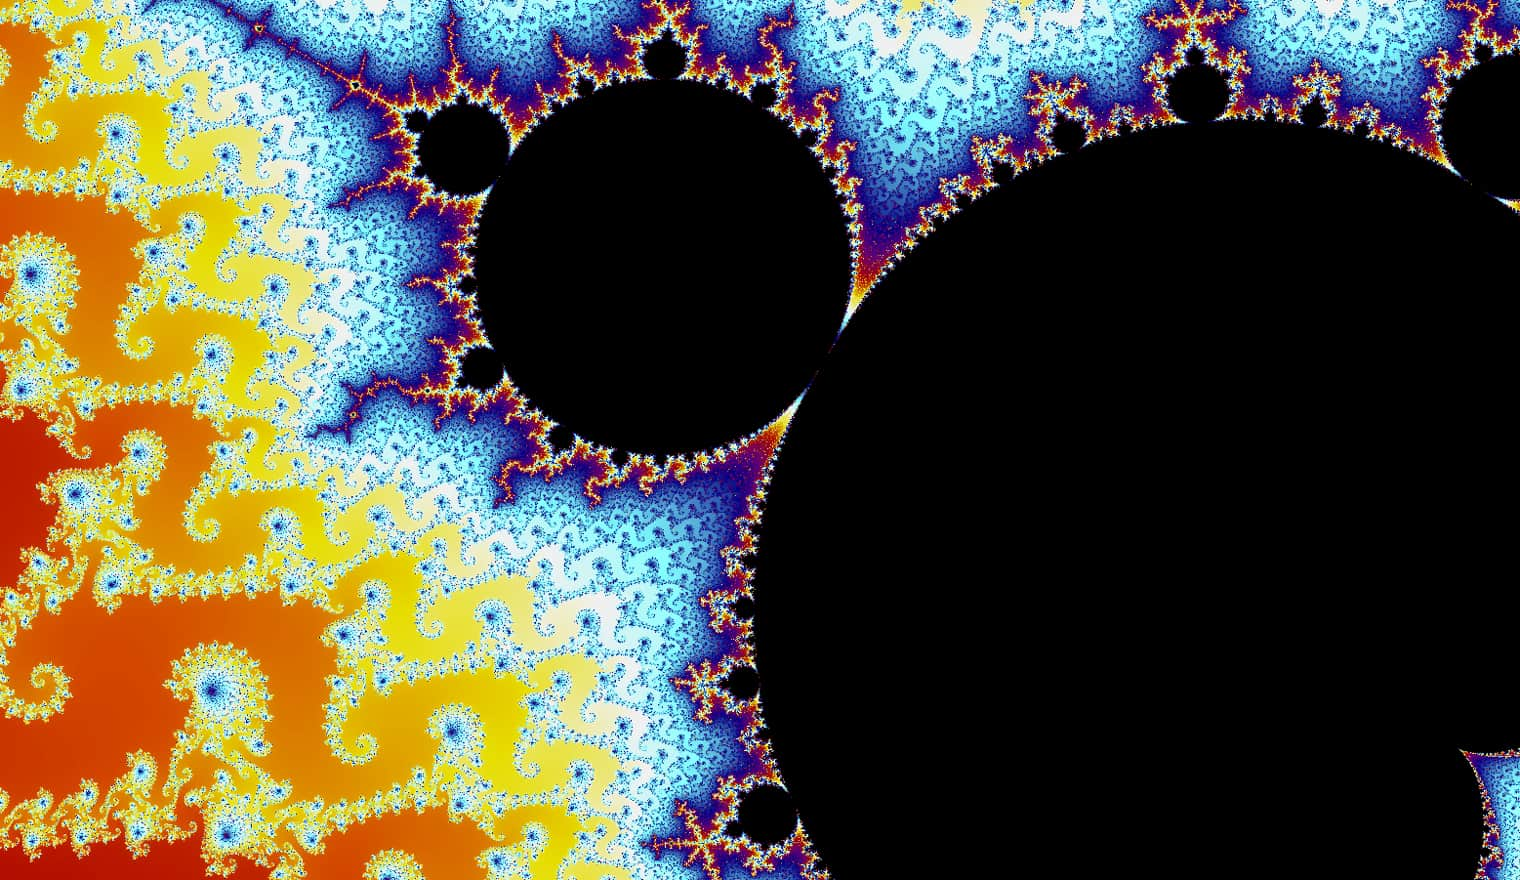
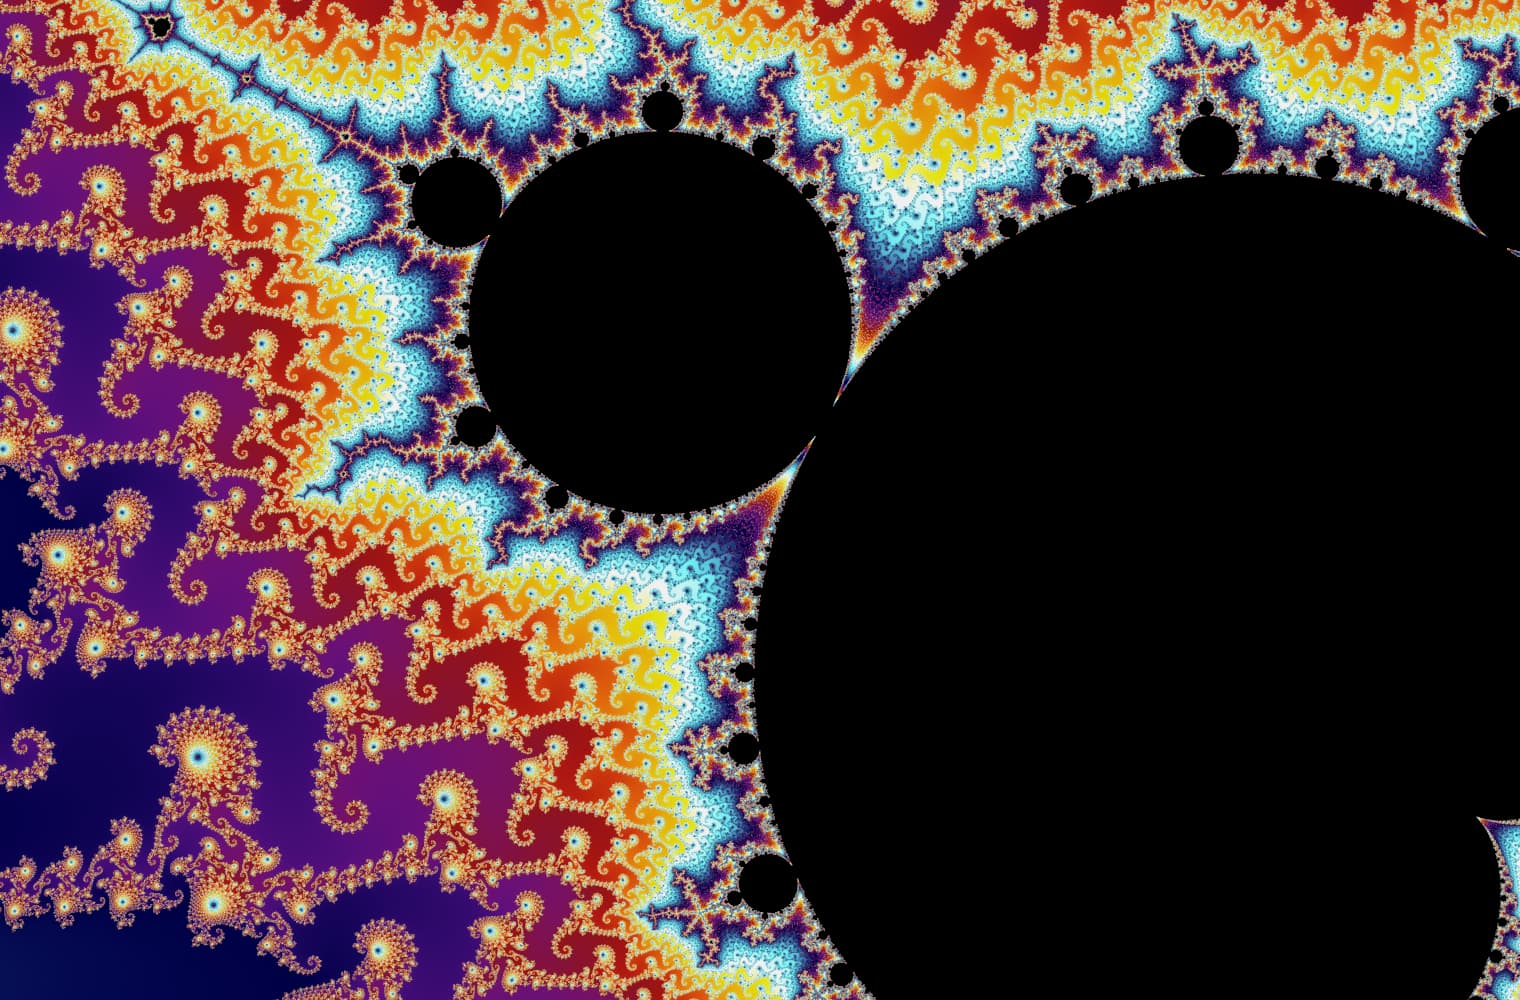
Update mandelbrot images and into text

diff --git a/content/fractals/functions.ts b/content/fractals/functions.ts
@@ -47,11 +47,18 @@ function drawIteration($canvas: CanvasView, a: Point, b: Point, c1: Point, c2: P
 export function fern($step: Step) {
   const $geopad = $step.$('x-geopad') as Geopad;
   const $canvas = $geopad.$('canvas') as CanvasView;
+  const $slider = $step.$('x-slider') as Slider;
 
   $step.model.watch(({steps, a, b, c1, c2}: any) => {
     $canvas.clear();
     drawIteration($canvas, a.scale(2), b.scale(2), c1.scale(2), c2.scale(2), steps);
   });
+
+  $step.model.set = (a: number, b: number, c: number, d: number) => {
+    $geopad.animatePoint('c1', new Point(a, b), 500);
+    $geopad.animatePoint('c2', new Point(c, d), 500);
+    $slider.moveTo(8, 500)
+  };
 }
 
 function drawSierpinski([a, b, c]: Point[], i: number): string {
@@ -185,7 +192,7 @@ export function mandelZoom($step: Step) {
   const $slider = $step.$('x-slider') as Slider;
   const speed = 2 * ($images.length - 1) / $slider.steps;
 
-  $step.model.pow = (s: number) => Math.round(2 ** (s/100 * 19));
+  $step.model.pow = (s: number) => Math.round(4 ** (s/10));
 
   $step.model.watch((state: any) => {
     for (const [i, $img] of $images.entries()) {

diff --git a/content/fractals/styles.less b/content/fractals/styles.less
@@ -70,7 +70,7 @@ path.var.white { fill: white; }
   position: relative;
   overflow: hidden;
   border-radius: 6px;
-  padding-bottom: 57.89%;
+  padding-bottom: 65.79%;
   img { .fillParent(); }
   .scale { position: absolute; left: 50%; bottom: 8px; background: fade(black, 50%);
     color: white; border: 1px solid white; border-radius: 20px; line-height: 24px;

diff --git a/content/fractals/content.md b/content/fractals/content.md
@@ -25,44 +25,52 @@ spiralling around a larger one.
 
 :::
 
-{.fixme.reveal(when="blank-0")} Initially, these look highly complex shapes – but
-when you look closer, you can see that they both follow a simple pattern:
-Notice how the [individual parts](target:fractal) of both plants look exactly
-the same as the entire plant, just smaller. The same pattern is repeated over
-and over again, at smaller scales.
-
----
-> id: self-similar
-
-{.fixme} In mathematics, we call this _self-similarity_. The shapes that have this
-property are called __Fractals__, and they are some of the most beautiful and
-most bizarre objects in all of mathematics.
+{.reveal(when="blank-0")} Initially, these appear like highly complex shapes –
+but when you look closer, you might notice that they both follow a relatively
+simple pattern: all the [individual parts](target:fractal) of the plants look
+exactly the same as the entire plant, just smaller. The same pattern is repeated
+over and over again, at smaller scales.
+[Continue](btn:next)
 
 ---
 > id: fern
 
-{.fixme} To create a fractal, you can start with a simple pattern and repeat it at
-smaller scales, again and again, forever. 
+In mathematics, we call this property __self-similarity__, and shapes that
+have it are called [__fractals__](gloss:fractal). They are some of the most
+beautiful and most bizarre objects in all of mathematics.
+
+To create our own fractals, we have to start with a simple pattern and then
+repeat it over and over again, at smaller scales.
 
 ::: column.grow
 
-{.fixme} We can try to create our own fractals using geometry.
+One of the simplest patterns might be a [{.pill.red} line segment](target:s1),
+with [{.pill.blue} two more segments](target:s2) branching off one end. If we
+repeat this pattern, both of these blue segments will also have two more
+branches at their ends.
 
-{.fixme} Depending on how you position the points, you can make completely different
-kinds of shapes – looking like a tree, or like a fern.
+You can move the [blue dots](target:dot) to change the length and angle of all
+of the branches. Then increase the number of iterations using [the
+slider](->#fern-slider) below.
 
-::: column(width=320)
+{.reveal(when="slider-0")} Depending on the position of the branches, you can
+make completely different patterns – looking like the
+[fern](action:set(130,228,197,184)) above, a [tree](action:set(160,186,200,186)),
+or [nested pentagons](action:set(113,235,232,238)). What else can you find?
+[Continue](btn:next)
 
-    x-geopad(width=320 height=320)
-      canvas(width=640 height=640)
+::: column(width=360)
+
+    x-geopad(width=360 height=360 projections="no")
+      canvas(width=720 height=720)
       svg
-        circle(x="point(160,300)" name="a" hidden)
-        circle(x="point(160,220)" name="b" hidden)
-        circle.move.blue(name="c1" cx=150 cy=160)
-        circle.move.blue(name="c2" cx=200 cy=200)
-        path.thick.red(x="segment(a,b)")
-        path.thick.blue.rounded(x="polyline(c1,b,c2)")
-    x-slider(steps=8 var="steps")
+        circle(x="point(180,340)" name="a" hidden)
+        circle(x="point(180,250)" name="b" hidden)
+        circle.move.blue.pulsate(name="c1" cx=150 cy=175 target="s2 dot")
+        circle.move.blue.pulsate(name="c2" cx=225 cy=220 target="s2 dot")
+        path.thick.red(x="segment(a,b)" target="s1")
+        path.thick.blue.rounded(x="polyline(c1,b,c2)" target="s2")
+    x-slider#fern-slider(steps=8 var="steps")
 
 :::
 
@@ -71,7 +79,7 @@ kinds of shapes – looking like a tree, or like a fern.
 
 ::: column.grow(parent="right")
 
-Another famous fractal is the __Sierpinski Triangle__. In this case, you start
+Another famous fractal is the __Sierpinski Triangle__. In this case, we start
 with a large, equilateral triangle, and then repeatedly cut smaller triangles
 out of the remaining parts.
 
@@ -91,18 +99,14 @@ will continue repeating, forever.
 ---
 > id: real
 
-{.fixme} The plants at the begining of this chapter _look_ like fractals, but it is
-clearly impossible to create _true_ fractals in real life: if we keep repeating
+The plants at the begining of this chapter _look_ just like fractals, but it is
+clearly impossible to create _true_ fractals in real-life: if we keep repeating
 the same pattern over and over again, smaller and smaller, we would eventually
 get to cells, molecules or atoms which can no longer be divided.
 
-{.fixme} At the beginning of this chapter, we saw two examples of plants that look almost
-like fractals – ferns and broccoli. Of course, true fractals can never appear
-in nature: if you zoom in further and further, you would eventually arrive at
-molecules and atoms, which are no longer divisible.
-
 However, using mathematics, we can think about the properties that real fractals
 “would” have – and these are very surprising…
+[Continue](btn:next)
 
 ---
 
@@ -114,7 +118,7 @@ However, using mathematics, we can think about the properties that real fractals
 
 ::: column.grow
 
-First, let’s think about the dimension of Fractals. A line has dimension [[1]].
+First, let’s think about the dimension of fractals. A line has dimension [[1]].
 _{span.reveal(when="blank-0")} When scaling it by a factor of 2, its length
 increases by a factor of `§2^1 = 2`. Obviously!_
 
@@ -143,6 +147,8 @@ a factor of 2, its area increases by a factor of `§2^2 =` [[4]]._
 
 A square has dimension [[3]]. _{span.reveal(when="blank-0")} When scaling it by
 a factor of 2, its volume increases by a factor of `§2^3 =` [[8]]._
+_{span.reveal(when="blank-1")} Notice that the larger cube in the image
+consists of 8 copies of the smaller one!_
 
 :::
 
@@ -154,32 +160,39 @@ a factor of 2, its volume increases by a factor of `§2^3 =` [[8]]._
 
 ::: column.grow
 
-Now let's have a look at the Sierpinski triangle. If we scale it by a factor of
-2, you can see that it's "area" increases by a factor of [[3]].
+Now let’s have a look at the Sierpinski triangle. If we scale it by a factor of
+2, you can see that it’s “area” increases by a factor of [[3]].
 
-{.reveal(when="blank-0")} Let's say that _d_ is the dimension of the triangle.
-Using the same pattern as above, we get `§2^d = 3`. In other words, _d_ =
-[[`log_2(3)`|`log_3(2)`]] _≈ 1.585…_
+{.reveal(when="blank-0")} Let’s say that _d_ is the dimension of the Sierpinski
+triangle. Using the same pattern as above, we get `§2^d = 3`. In other words,
+_d_ = [[`log_2(3)`|`log_3(2)`]] _{span.reveal(when="blank-1")}≈ 1.585…_
 
 :::
 
 ---
 
-So … how can something have a dimension that is not an integer? It seems
+But wait … how can something have a dimension that is not an integer? It seems
 impossible, but this is just one of the weird properties of fractals. In fact,
 this is what gives fractals their name: they have a __fractional dimension__.
 
 With every iteration, we remove some of the area of the Sierpinski triangle.
 If we could do this infinitely many times, there would actually be no area
-left: that's why the Sierpinski triangle is something in-between a 2-dimesional
+left: that’s why the Sierpinski triangle is something in-between a 2-dimesional
 area, and a 1-dimensional line.
+
+::: .theorem
+While many fractals are _self-similar_, a better definition is that __fractals__
+are shapes which have a __non-integer dimension__.
+:::
+
+[Continue](btn:next)
 
 ---
 > id: snowflake
 
 ### The Koch Snowflake
 
-There are many shapes in nature that look like fractals. We've already seen
+There are many shapes in nature that look like fractals. We’ve already seen
 some plants at the beginning of this chapter. Another great examples are
 snowflakes and ice crystals:
 
@@ -674,6 +687,21 @@ supercomputers in 1980; today everybody can do the same calculations on a normal
 laptop.
 
 ---
+
+Here are two of the first visualisations of the Mandelbrot set and a Julia set,
+from a paper by Robert Brooks and Peter Matelski, published in 1980:
+
+::: column(width=340)
+
+    x-media(src="images/mandelbrot.jpg" width=340 height=340)
+
+::: column(width=340)
+
+    x-media(src="images/julia.jpg" width=340 height=340)
+
+:::
+
+---
 > id: mandel-zoom
 
 Black points in the image below are part of the Mandelbrot set. Coloured areas
@@ -682,16 +710,17 @@ respective sequence of complex numbers diverges (tends to infinity).
 
     .mandel-frame
       - i = 1;
-      while i <= 19
-        img(src="images/mandel/mandel-" + i + ".jpg" width=800 height=450)
+      while i <= 27
+        img(src="images/mandel/mandel-" + i + ".jpg" width=760 height=500)
         - i += 1;
       .scale.var Scale: ${pow(scale)}
-    x-slider(steps=100 speed=0.5 var="scale")
+    x-slider(steps=270 speed=0.5 var="scale")
 
 ---
 
-Number of fixed points in every bulb
+The Mandelbrot set can be created with just a single, simple equation – yet, it
+is infinitely complex and stunningly beautiful. This combination has made it
+one of the most famous and most recognisable shapes in all of mathematics.
 
----
-
-relationship between julia and mandelbrot
+{.todo} Coming Soon: More on the relationship between the Julia and
+Mandebrot sets, and the number of fixed points in every bulb.
